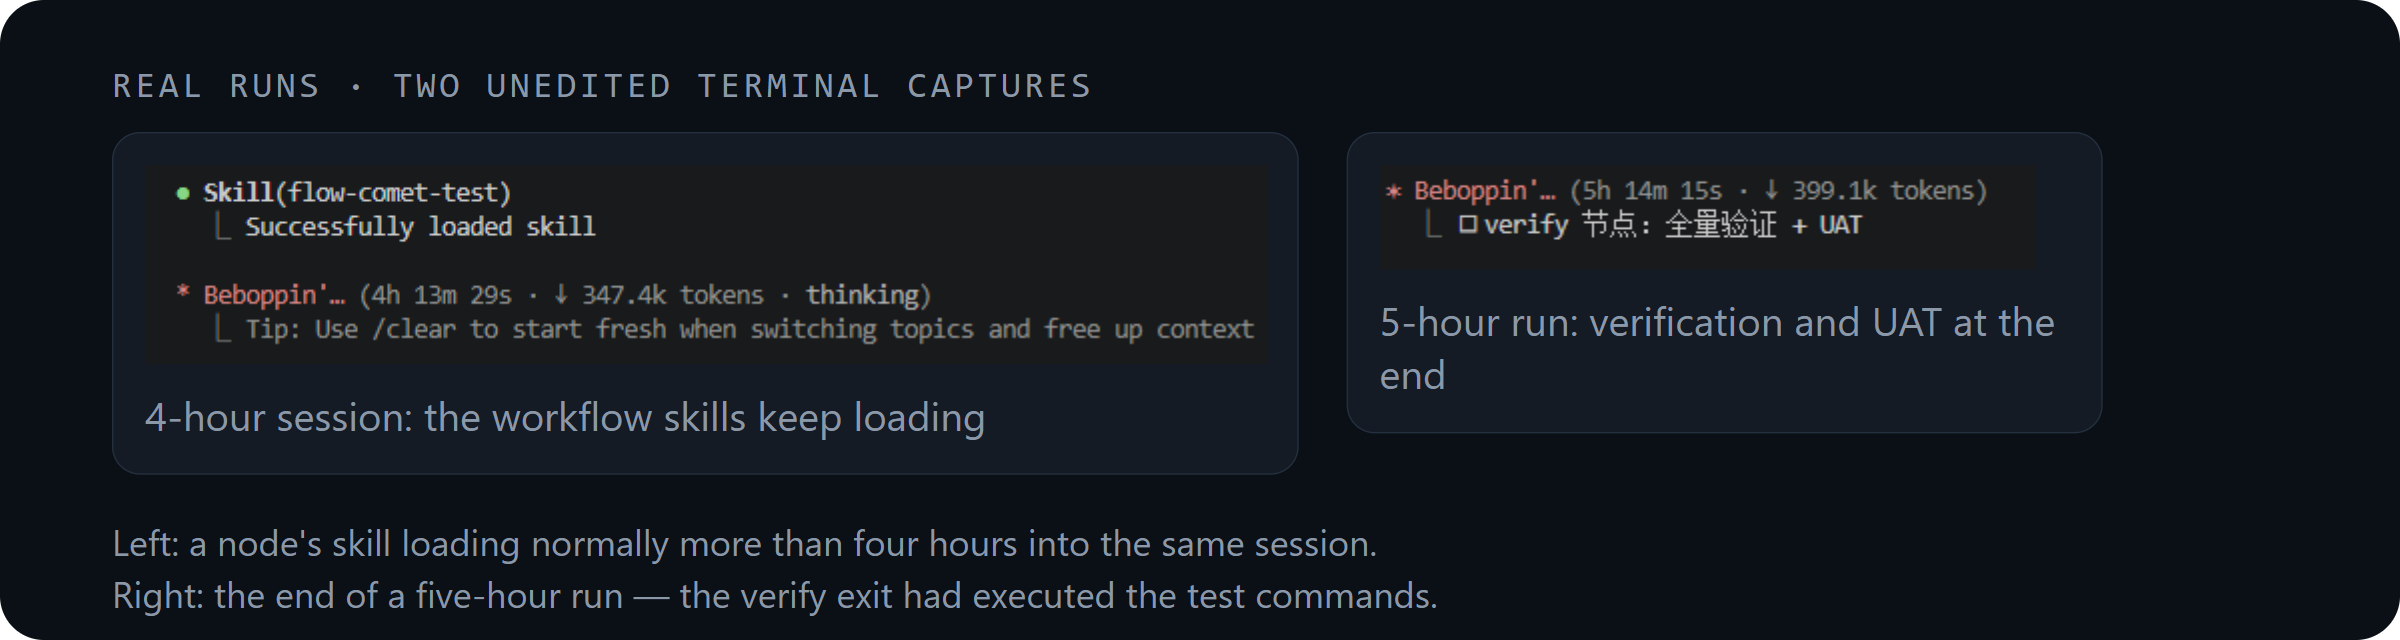
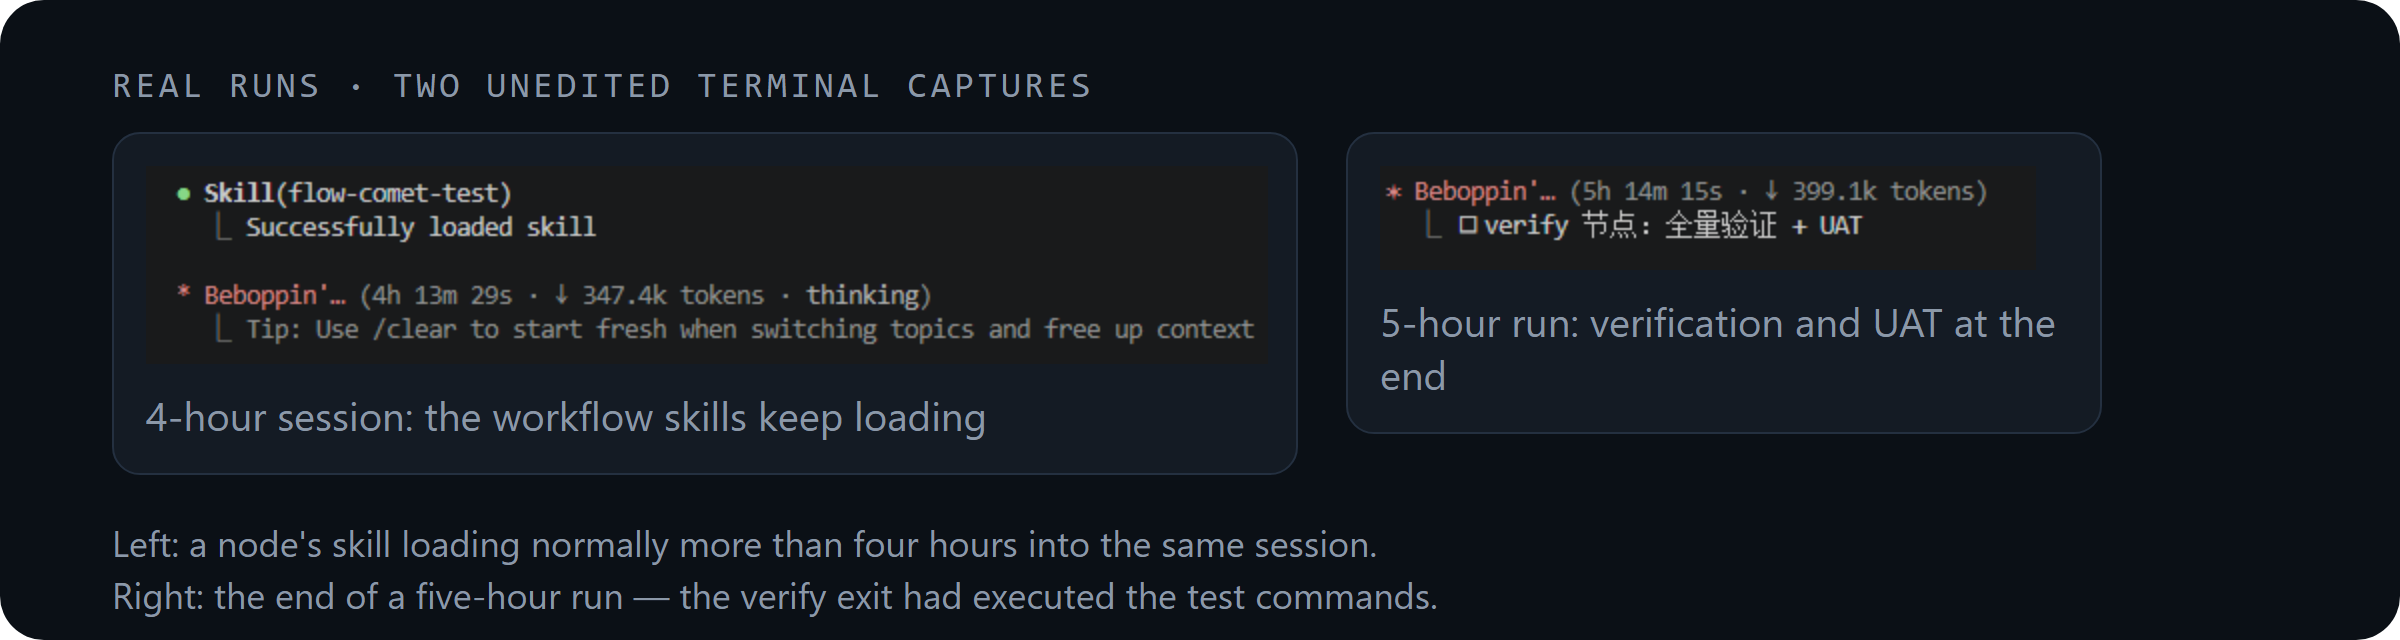
docs(readme): embed the animated diagram, restore the example link and make the board source portable

diff --git a/assets/readme/source/proof-board.html b/assets/readme/source/proof-board.html
@@ -1,4 +1,15 @@
 <!doctype html>
+<!--
+  Layout source for assets/readme/proof-board.png. The two captures are placed at
+  their native pixel size — never upscaled — and the board is rendered once with:
+
+    chrome --headless=new --disable-gpu --hide-scrollbars
+           --force-device-scale-factor=2 --window-size=1200,320
+           --screenshot=assets/readme/proof-board.png
+           file:///<repo>/assets/readme/source/proof-board.html
+
+  Image paths are relative to this file, so the board renders from any checkout.
+-->
 <html lang="en"><head><meta charset="utf-8"><title>proof-board</title>
 <style>
   html, body { margin: 0; padding: 0; overflow: hidden; background: #ffffff; }
@@ -24,12 +35,12 @@
   <div class="label mono">REAL RUNS · TWO UNEDITED TERMINAL CAPTURES</div>
 
   <div class="card" id="cardA">
-    <img src="file:///D:/LongYinHaHa/VSCode/flow-comet/images/long-run-4h-and-skill-triggering.png" width="561" height="99" alt="">
+    <img src="../long-run-4h-and-skill-triggering.png" width="561" height="99" alt="">
     <div class="cap">4-hour session: the workflow skills keep loading</div>
   </div>
 
   <div class="card" id="cardB">
-    <img src="file:///D:/LongYinHaHa/VSCode/flow-comet/images/long-run-5h.png" width="328" height="52" alt="">
+    <img src="../long-run-5h.png" width="328" height="52" alt="">
     <div class="cap">5-hour run: verification and UAT at the end</div>
   </div>
 

diff --git a/README.md b/README.md
@@ -39,7 +39,7 @@ cd <your project>
 fcomet init
 ```
 
-`fcomet` and `flow-comet` are two names for the same installer. The `init` token may be omitted whenever another argument expresses the intent (`fcomet --target <dir>`), and `--target` itself defaults to the current directory; called with no arguments at all the command prints its usage and exits non-zero instead of installing. On a terminal, a run without `--platform` asks which platform to set up, pre-ticking whatever it detects in the project; for a non-interactive pick use `--platform claude-code`, `--platform codex`, `--platform dsh`, a comma-separated combination such as `--platform claude-code,dsh`, or `--platform all`. Re-running the same command updates an existing install and is idempotent. Upgrading the global package only replaces the CLI — run `fcomet init` in a project again to refresh that project's copy.
+`fcomet` and `flow-comet` are two names for the same installer. The `init` token may be omitted whenever another argument expresses the intent (`fcomet --target <dir>`), and `--target` itself defaults to the current directory; called with no arguments at all the command prints its usage and exits non-zero instead of installing. On a terminal, a run without `--platform` asks which platform to set up, marking whatever it detects in the project and offering it as the default; for a non-interactive pick use `--platform claude-code`, `--platform codex`, `--platform dsh`, a comma-separated combination such as `--platform claude-code,dsh`, or `--platform all`. Re-running the same command updates an existing install and is idempotent. Upgrading the global package only replaces the CLI — run `fcomet init` in a project again to refresh that project's copy.
 
 **Verify**:
 
@@ -76,7 +76,7 @@ Prerequisites, all four install options, the per-platform verification steps and
 
 ## Real-run artifacts
 
-A complete 8-node run leaves the artifact trail below — a real archived change from the end-to-end test project (2026-08-13), kept in this repository as the quality reference: CHANGE / REQUIREMENT / DESIGN / TASK / six-section summaries / REVIEW with disposition markers / TEST / UAT / KNOWN-ISSUES / skill-load declaration markers.
+A complete 8-node run leaves the artifact trail below — [a real archived change](docs/examples/processor-pipeline/) from the end-to-end test project (2026-08-13), kept in this repository as the quality reference: CHANGE / REQUIREMENT / DESIGN / TASK / six-section summaries / REVIEW with disposition markers / TEST / UAT / KNOWN-ISSUES / skill-load declaration markers.
 
 ```
 processor-pipeline/            (archived change, full artifact set)
@@ -99,7 +99,7 @@ Two captures from real sessions of this project, unedited: a workflow skill load
 The process is flow-kit's nine stages; the engine runs them as eight nodes. CHANGE and REQUIREMENT are covered by `open`, TEST and REVIEW by `review`, and DEV runs as `execute` or `subagent-execute` depending on the execution mode. Every node's exit is validated before the next one opens — the `verify` exit really executes the commands in `TEST.md` — and each node's artifacts land under `.specs/<change-id>/`.
 
 <p align="center">
-  <img src="assets/readme/workflow.svg" width="100%" alt="Nine flow-kit stages mapped onto the engine's eight nodes: CHANGE and REQUIREMENT merge into open, TEST and REVIEW into review, DEV runs as execute or subagent-execute, and every transition carries a gate" />
+  <img src="assets/readme/workflow.gif" width="100%" alt="An animated diagram mapping the nine flow-kit stages onto the engine's eight nodes: CHANGE and REQUIREMENT merge into open, TEST and REVIEW into review, DEV runs as execute or subagent-execute, and every transition carries a gate" />
 </p>
 
 Driving a node by hand, the artifacts each node produces, and the two command surfaces are documented in [Usage](docs/USAGE.md); what the engine guarantees and how a node's exit is validated are in [Core Mechanisms](docs/MECHANISM.md).

diff --git a/README-zh.md b/README-zh.md
@@ -39,7 +39,7 @@ cd <你的项目>
 fcomet init
 ```
 
-`fcomet` 与 `flow-comet` 是同一个安装器的两个命令名。只要其它参数已经表达了意图，`init` 词元可以省略（`fcomet --target <dir>` 等价）；`--target` 本身也可省略，缺省为当前目录。**不带任何参数**时只打印用法并非零退出，不会安装。在交互式终端里，未传 `--platform` 的运行会询问装哪个平台，并按探测到的痕迹预勾选；非交互用 `--platform claude-code`、`--platform codex`、`--platform dsh`，或用逗号组合（如 `--platform claude-code,dsh`）与 `--platform all`。重复执行同一条命令是**幂等更新**。升级全局包只换 CLI——要让项目里的副本更新，需在该项目重跑 `fcomet init`。
+`fcomet` 与 `flow-comet` 是同一个安装器的两个命令名。只要其它参数已经表达了意图，`init` 词元可以省略（`fcomet --target <dir>` 等价）；`--target` 本身也可省略，缺省为当前目录。**不带任何参数**时只打印用法并非零退出，不会安装。在交互式终端里，未传 `--platform` 的运行会询问装哪个平台，标出探测到的痕迹并把它作为默认值；非交互用 `--platform claude-code`、`--platform codex`、`--platform dsh`，或用逗号组合（如 `--platform claude-code,dsh`）与 `--platform all`。重复执行同一条命令是**幂等更新**。升级全局包只换 CLI——要让项目里的副本更新，需在该项目重跑 `fcomet init`。
 
 **验证**：
 
@@ -76,7 +76,7 @@ cat .claude/skills/flow-comet/INSTALLED_VERSION    # 写进本项目的版本标
 
 ## 真实运行产物
 
-一次完整 8 节点运行会留下下面这条工件链——它是一次真实归档的 change（端到端测试项目，2026-08-13），保留在本仓库里作为质量参照：CHANGE / REQUIREMENT / DESIGN / TASK / 六段 SUMMARY / 带处置标记的 REVIEW / TEST / UAT / KNOWN-ISSUES / skill-load 声明标记。
+一次完整 8 节点运行会留下下面这条工件链——[一次真实归档的 change](docs/examples/processor-pipeline/)（端到端测试项目，2026-08-13），保留在本仓库里作为质量参照：CHANGE / REQUIREMENT / DESIGN / TASK / 六段 SUMMARY / 带处置标记的 REVIEW / TEST / UAT / KNOWN-ISSUES / skill-load 声明标记。
 
 ```
 processor-pipeline/            （归档 change，完整产物集）
@@ -99,7 +99,7 @@ processor-pipeline/            （归档 change，完整产物集）
 流程是 flow-kit 的 9 个阶段；引擎把它们跑成 8 个节点。CHANGE 与 REQUIREMENT 由 `open` 覆盖，TEST 与 REVIEW 由 `review` 覆盖，DEV 则按执行模式跑成 `execute` 或 `subagent-execute`。每个节点的出口都先被校验，下一个节点才会打开——`verify` 出口会真实执行 `TEST.md` 里的命令——每个节点的工件都落在 `.specs/<change-id>/` 下。
 
 <p align="center">
-  <img src="assets/readme/workflow.svg" width="100%" alt="flow-kit 的 9 个阶段映射到引擎的 8 个节点：CHANGE 与 REQUIREMENT 合并为 open，TEST 与 REVIEW 合并为 review，DEV 按执行模式跑成 execute 或 subagent-execute，每段转换都有一道闸门" />
+  <img src="assets/readme/workflow.gif" width="100%" alt="动效示意图：flow-kit 的 9 个阶段映射到引擎的 8 个节点——CHANGE 与 REQUIREMENT 合并为 open，TEST 与 REVIEW 合并为 review，DEV 按执行模式跑成 execute 或 subagent-execute，每段转换都有一道闸门" />
 </p>
 
 手动驱动一个节点、每个节点产出什么工件、以及两套命令面，见[使用](docs/USAGE-zh.md)；引擎保证什么、节点出口如何被校验，见[核心机制](docs/MECHANISM-zh.md)。
